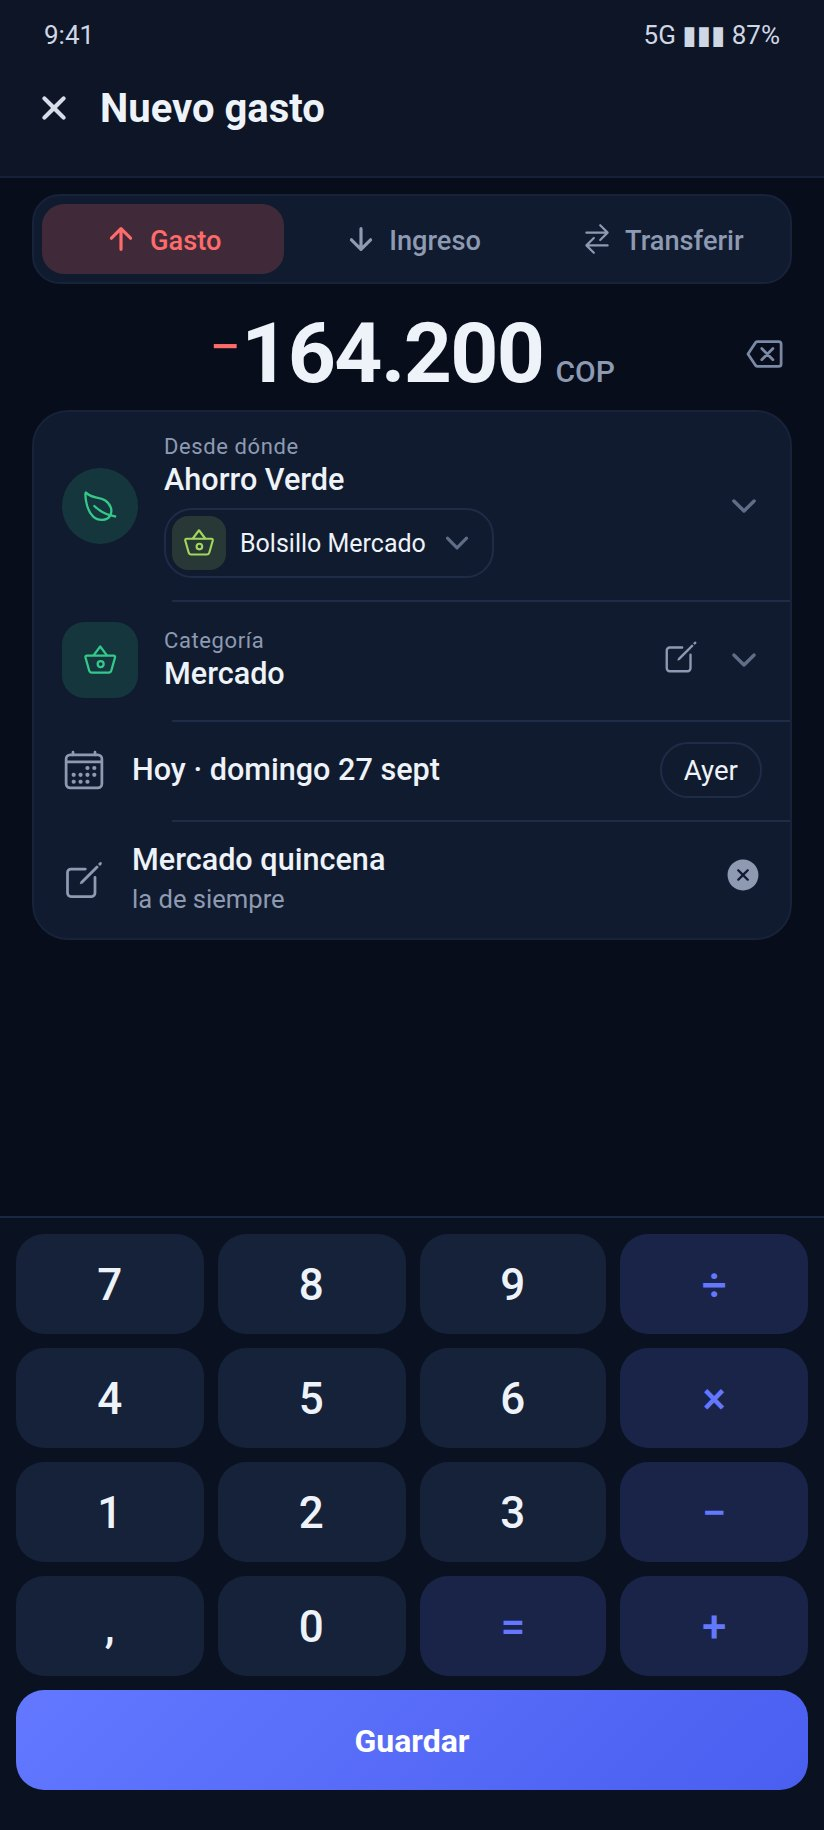
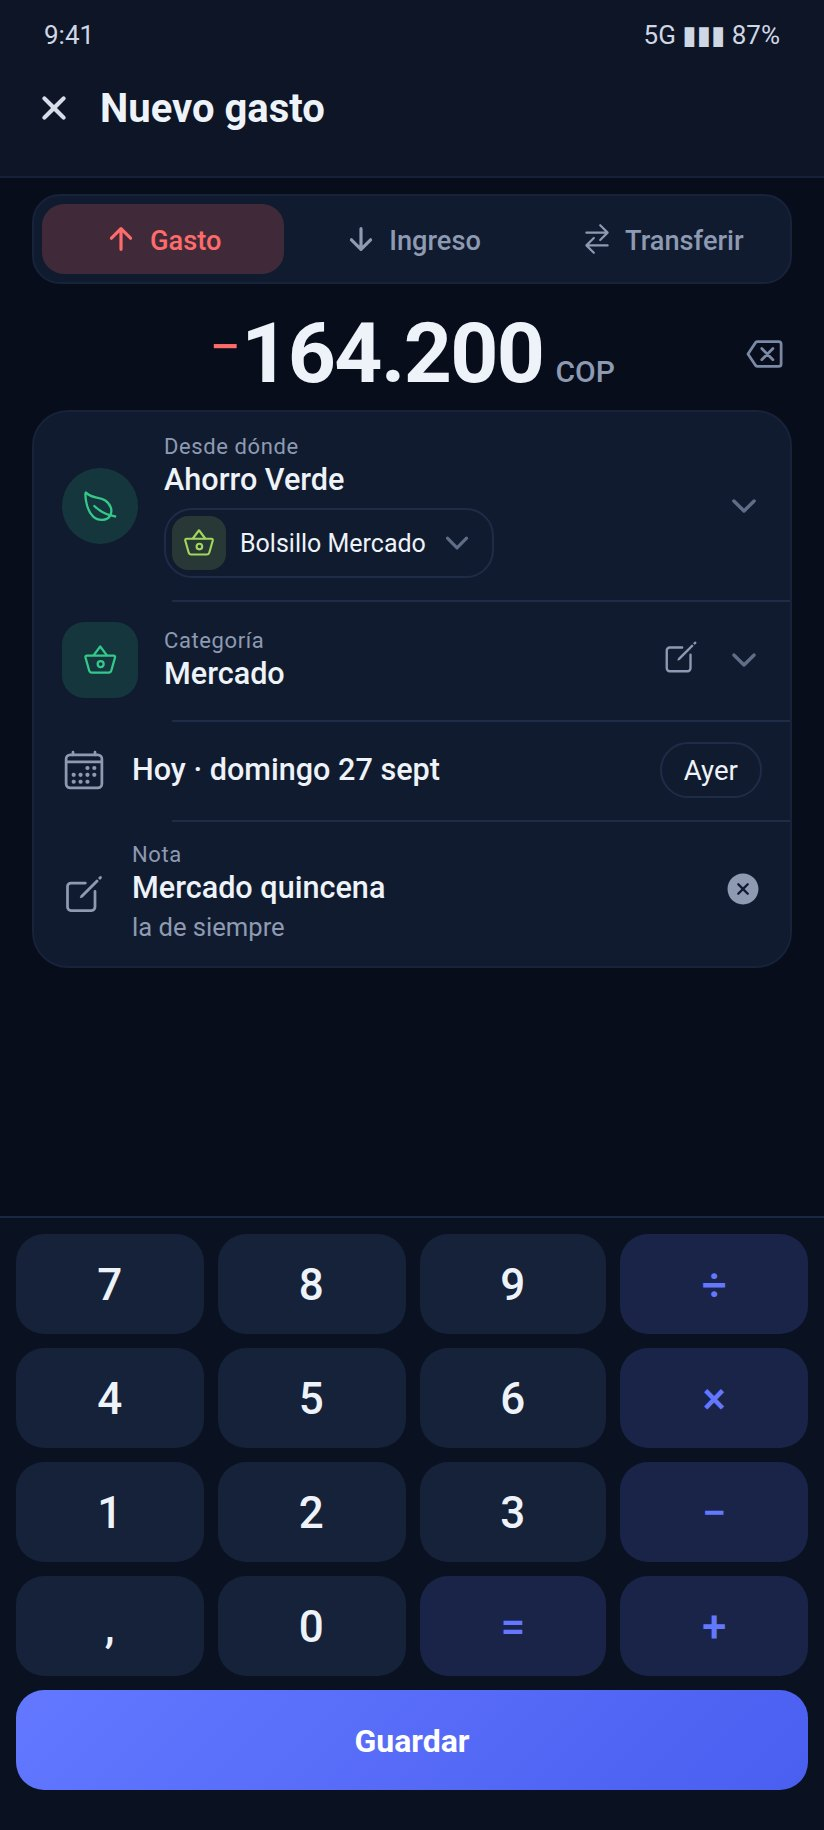
Draw every transfer involving products (group 4)
Eleven screens of the one transfer form: between products of one
account, product to account and back, choosing either product, between
two accounts with products, into a product set aside from net worth,
into another currency, reversed, the same product on both ends, and
editing. Group 1's note rows gain their Nota label.

Claude-Session: https://claude.ai/code/session_01QyUqFix1SMdsKVBtd1Wz88

Changed region(s): [[0.1517, 0.4672, 0.4854, 0.5295], [0.8799, 0.4672, 0.9405, 0.4984], [0.0607, 0.4672, 0.1214, 0.4984]]

diff --git a/docs/mockups/README.md b/docs/mockups/README.md
@@ -21,6 +21,7 @@ is redone, and superseded by Jose's review of 2026-09-28.
 | `1a`–`1n` | Group 1 (v5): Inicio (transfers apart, the donut with a capped legend), one account with products (its two quick buttons), one account with a long name (ellipsis and sliding), the "+" sheet, the movement form for spending, writing a note, a transfer, a move between products, two currencies, the account, product and category lists, editing and deleting |
 | `2a`–`2r` | Group 2 (v4): Cuentas (net worth, sorting, a multi-currency account, a card, one set aside), where net worth comes from, currencies and rates, typing a rate, adding a currency, a new account by hand and from a statement (reading it, and the form it fills), editing a card (top and bottom, the limit and its history), deleting, the icon, colour and own image, the archived, no accounts yet, an account whose face is its own image (`2q`) and its colour behind that image (`2r`) |
 | `3a`–`3j` | Group 3 (v4): Categorías closed and open, which list for a new one, editing (Para locked), a new one, the investment-return switch, the face's icon, colour and own image, the archived |
+| `4t01`–`4t11` | Group 4: every transfer with products - between two products of one account, choosing the product it leaves from, product to an account, account to a product, choosing the product it lands in, between two accounts with products, into a product set aside from net worth, into another currency, after "Invertir", the same product on both ends, editing one |
 | `4a`–`4zz` | Group 4 (v5): Rendimientos in the Cuentas tab, adding an account; an account's page with its selector (Productos, Movimientos, Pagos, Días), one day corrected or set to zero, stopping it; a product with its selector (Producto, Saldo said as a sum, Tasa, one using the account's rate, a new rate, Bonificación and a new one), deleting it and choosing where its balance goes; a CDT (CDT, Al vencer and choosing where it pays, Pagos); a new product's Saldo; a product's own income and expense with "¿Qué cambia?" as one row opening a sheet, and the note |
 | `d01`–`d05` | Report (money, yields), reading a statement, Por revisar (and choosing several) |
 | `d06`–`d07` | Avisos del banco, without and with permission |

diff --git a/CLAUDE.md b/CLAUDE.md
@@ -2214,6 +2214,13 @@ does today, with these changes of ACCESS for Jose to accept or refuse:
   holds the person's own words about that movement; the usual note and
   the matches while typing are notes written before, never category
   names (`4x`, `4z`).
+- **Transfers with products** (`4t01`-`4t11`, asked for by Jose): the one
+  transfer form, which today already carries a product on each end
+  (`productId`, `toProductId` in `entry.component.ts`) and refuses the
+  same product on both ("Elige dos productos distintos"). Every case is
+  drawn; a product set aside from net worth says quietly that the money
+  then counts as leaving (rule 5). Every note row is labelled "Nota",
+  group 1's included.
 - (The black areas in the contact sheets sent before were empty slots,
   not screens: nothing was missed. The sheets are now as wide as what
   they hold.)
